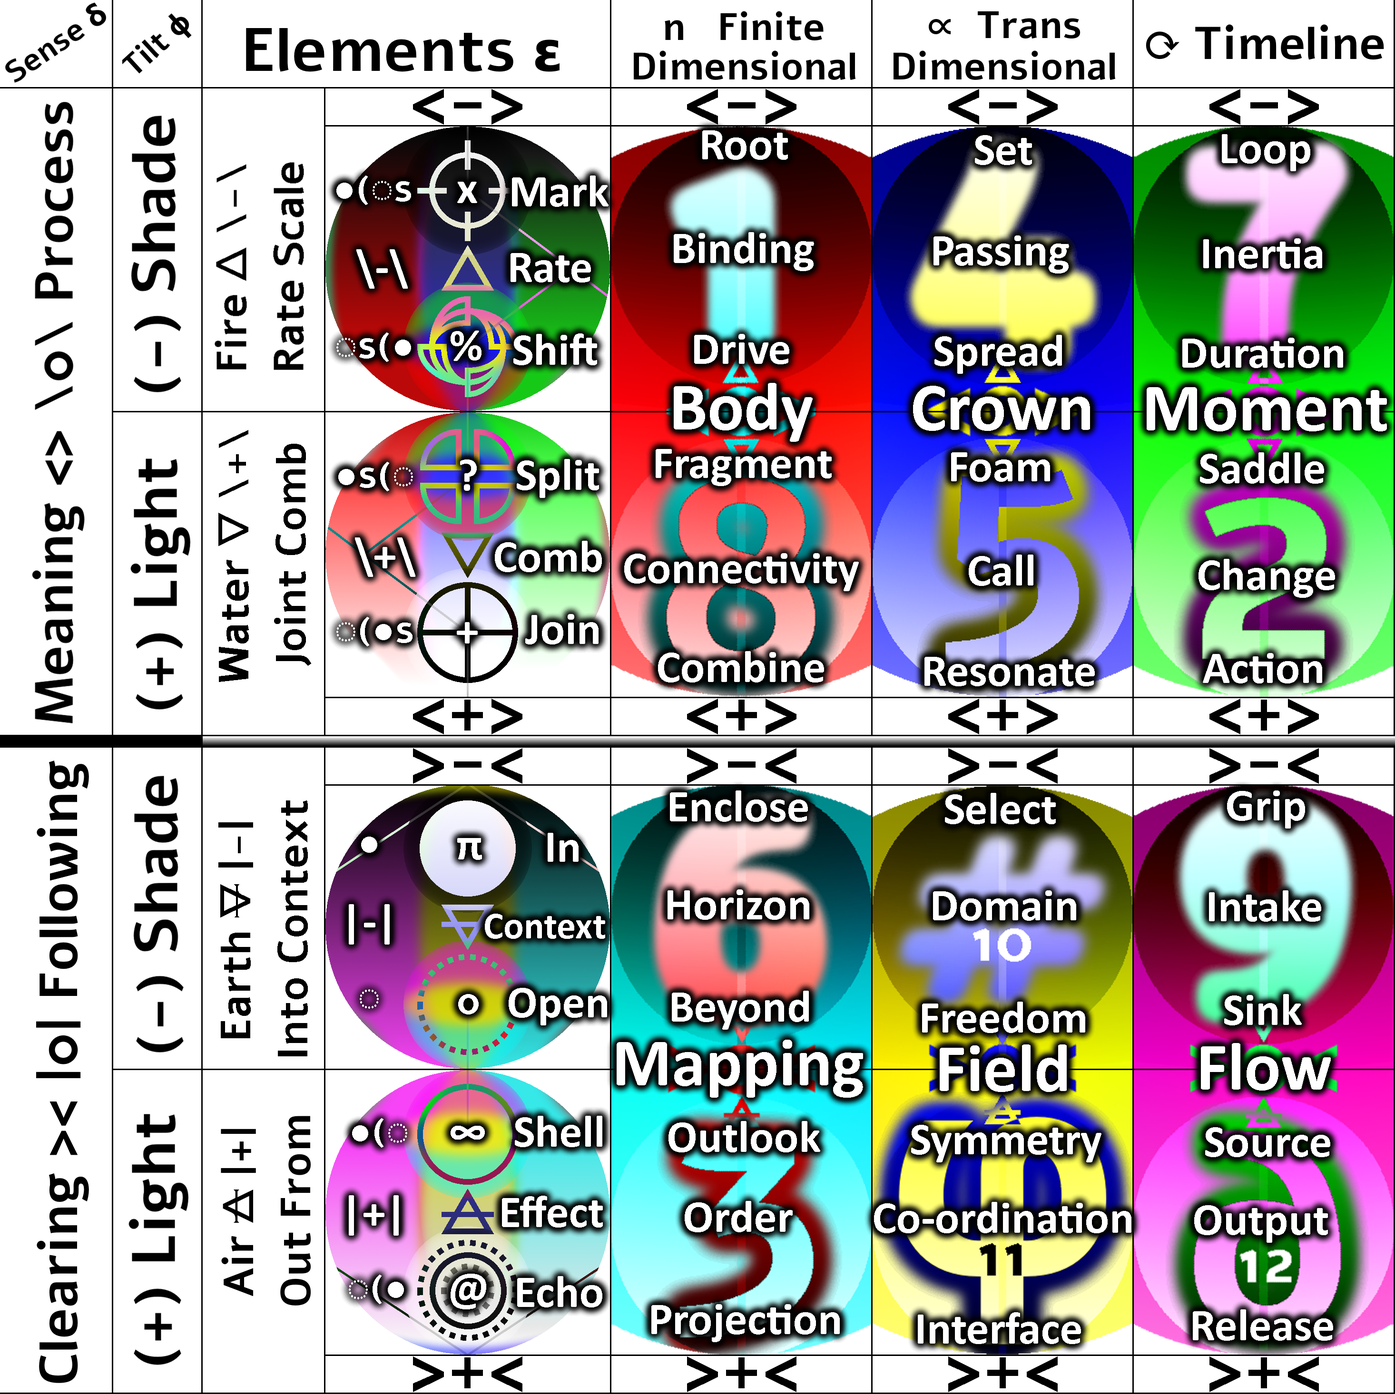
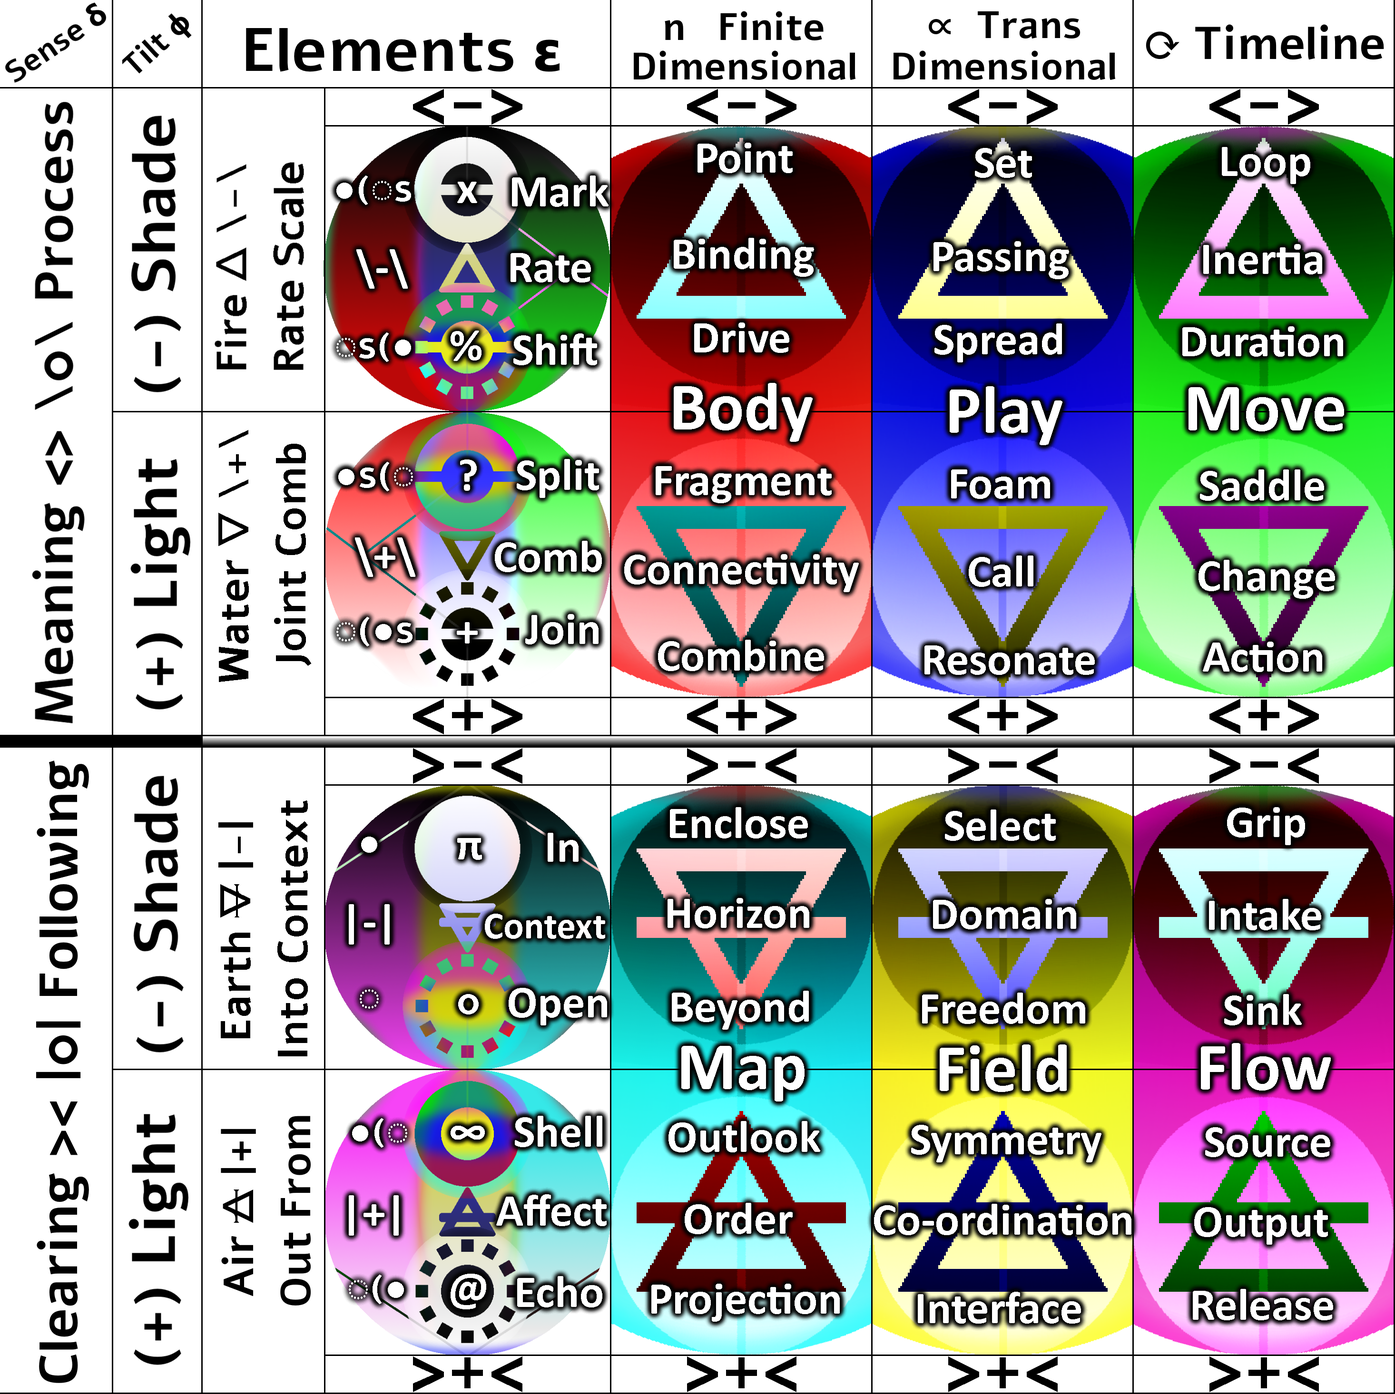
Holoknoticon 12.3

diff --git a/index.html b/index.html
@@ -76,47 +76,47 @@
 			<p>The circular bodies out-spiral until they fall into this worldly vortex. They adapt into the social mesh. They insist upon themselves. Only the unknowable is impenetrable. An appearance is an appearance. An appearance of helping is an appearance. An appearance of hurting is an appearance. A soul is hallow. What do you have? What can you do with it?</p>
 		</section>
 		<section id="orb">
-			<div style="top:522px; left:54px; transform: rotate(-30deg);" class="sefirot hoverDiv"><a href="#body" tabindex="11" onclick="outline('body')"><div>Red. Body. \n\</div></a></div>
-			<div style="top:550px; left:154px; transform: rotate(-30deg);" class="lune hoverDiv"><a href="#1" tabindex="12" onclick="outline('1')"><div>Dark Red. 1. Binding</div></a></div>
-			<div style="top:603px; left:62px; transform: rotate(-30deg);" class="lune hoverDiv"><a href="#8" tabindex="13" onclick="outline('8')"><div>Light Red. 8. Connectivity</div></a></div>
+			<div style="top:210px; left:350px; transform: rotate(45deg);" class="sefirot hoverDiv"><a href="#earth" tabindex="11" onclick="outline('earth')"><div>Earth. Context. |-|</div></a></div>
+			<div style="top:213px; left:404px;" class="lune hoverDiv"><a href="#in" tabindex="12" onclick="outline('in')"><div>In. π. ●</div></a></div>
+			<div style="top:320px; left:404px;" class="lune hoverDiv"><a href="#open" tabindex="13" onclick="outline('open')"><div>Open. o. o</div></a></div>
 
-			<div style="top:695px; left:350px;" class="sefirot hoverDiv"><a href="#field" tabindex="14" onclick="outline('field')"><div>Yellow. Field. |∝|</div></a></div>
-			<div style="top:695px; left:404px;" class="lune hoverDiv"><a href="#10" tabindex="15" onclick="outline('10')"><div>Dark Yellow. 10. Domain</div></a></div>
-			<div style="top:800px; left:404px;" class="lune hoverDiv"><a href="#11" tabindex="16" onclick="outline('11')"><div>Light Yellow. 11. Co-ordination</div></a></div>
+			<div style="top:350px; left:210px; transform: rotate(45deg);" class="sefirot hoverDiv"><a href="#fire" tabindex="14" onclick="outline('fire')"><div>Fire. Scale. \-\</div></a></div>
+			<div style="top:350px; left:265px;" class="lune hoverDiv"><a href="#mark" tabindex="15" onclick="outline('mark')"><div>Mark. x. ●(os</div></a></div>
+			<div style="top:458px; left:265px;" class="lune hoverDiv"><a href="#shift" tabindex="16" onclick="outline('shift')"><div>Shift. %. os(●</div></a></div>
 
-			<div style="top:522px; left:647px; transform: rotate(30deg);" class="sefirot hoverDiv"><a href="#moment" tabindex="17" onclick="outline('moment')"><div>Green. Moment. \⟳\</div></a></div>
-			<div style="top:550px; left:655px; transform: rotate(30deg);" class="lune hoverDiv"><a href="#7" tabindex="18" onclick="outline('7')"><div>Dark Green. 7. Inertia</div></a></div>
-			<div style="top:607px; left:746px; transform: rotate(30deg);" class="lune hoverDiv"><a href="#2" tabindex="19" onclick="outline('2')"><div>Light Green. 2. Change</div></a></div>
+			<div style="top:350px; left:490px; transform: rotate(45deg);" class="sefirot hoverDiv"><a href="#water" tabindex="17" onclick="outline('water')"><div>Water. Comb. \+\</div></a></div>
+			<div style="top:350px; left:542px;" class="lune hoverDiv"><a href="#split" tabindex="18" onclick="outline('split')"><div>Split. ?. ●s(o</div></a></div>
+			<div style="top:458px; left:542px;" class="lune hoverDiv"><a href="#join" tabindex="19" onclick="outline('join')"><div>Join. +. o(●s</div></a></div>
 
-			<div style="top:178px; left:647px; transform: rotate(-30deg);" class="sefirot hoverDiv"><a href="#mapping" tabindex="20" onclick="outline('mapping')"><div>Cyan. Mapping. |n|</div></a></div>
-			<div style="top:260px; left:654px; transform: rotate(-30deg);" class="lune hoverDiv"><a href="#6" tabindex="21" onclick="outline('6')"><div>Dark Cyan. 6. Horizon</div></a></div>
-			<div style="top:207px; left:748px; transform: rotate(-30deg);" class="lune hoverDiv"><a href="#3" tabindex="22" onclick="outline('3')"><div>Light Cyan. 3. Order</div></a></div>
+			<div style="top:490px; left:350px; transform: rotate(45deg);" class="sefirot hoverDiv"><a href="#air" tabindex="20" onclick="outline('air')"><div>Air. Effect. |+|</div></a></div>
+			<div style="top:490px; left:404px;" class="lune hoverDiv"><a href="#shell" tabindex="21" onclick="outline('shell')"><div>Shell. ∞. ●(o</div></a></div>
+			<div style="top:595px; left:404px;" class="lune hoverDiv"><a href="#echo" tabindex="22" onclick="outline('echo')"><div>Echo. @. o(●</div></a></div>
+			
+			<div style="top:420px; left:420px;" id="centerButton" class="hoverDiv"><a href="#center" tabindex="10" onclick="outline('center')"><div>Substance. Aleph Tao. Ineffable</div></a></div>
 
-			<div style="top:8px; left:350px;" class="sefirot hoverDiv"><a href="#verge" tabindex="23" onclick="outline('verge')"><div>Blue. Verge. \∝\</div></a></div>
-			<div style="top:115px; left:404px;" class="lune hoverDiv"><a href="#4" tabindex="24" onclick="outline('4')"><div>Dark Blue. 4. Pass</div></a></div>
-			<div style="top:10px; left:404px;" class="lune hoverDiv"><a href="#5" tabindex="25" onclick="outline('5')"><div>Light Blue. 5. Call</div></a></div>
+			<div style="top:522px; left:54px; transform: rotate(-30deg);" class="sefirot hoverDiv"><a href="#body" tabindex="23" onclick="outline('body')"><div>Red. Body. \n\</div></a></div>
+			<div style="top:550px; left:154px; transform: rotate(-30deg);" class="lune hoverDiv"><a href="#1" tabindex="24" onclick="outline('1')"><div>Dark Red. 1. Binding</div></a></div>
+			<div style="top:603px; left:62px; transform: rotate(-30deg);" class="lune hoverDiv"><a href="#8" tabindex="25" onclick="outline('8')"><div>Light Red. 8. Connectivity</div></a></div>
 
-			<div style="top:180px; left:52px; transform: rotate(30deg);" class="sefirot hoverDiv"><a href="#flow" tabindex="26" onclick="outline('flow')"><div>Magenta. Flow. |⟳|</div></a></div>
-			<div style="top:260px; left:154px; transform: rotate(30deg);" class="lune hoverDiv"><a href="#9" tabindex="27" onclick="outline('9')"><div>Dark Magenta. 9. Intake</div></a></div>
-			<div style="top:207px; left:62px; transform: rotate(30deg);" class="lune hoverDiv"><a href="#12" tabindex="28" onclick="outline('12')"><div>Light Magenta. 12. Output</div></a></div>
+			<div style="top:695px; left:350px;" class="sefirot hoverDiv"><a href="#field" tabindex="26" onclick="outline('field')"><div>Yellow. Field. |∝|</div></a></div>
+			<div style="top:695px; left:404px;" class="lune hoverDiv"><a href="#10" tabindex="27" onclick="outline('10')"><div>Dark Yellow. 10. Domain</div></a></div>
+			<div style="top:800px; left:404px;" class="lune hoverDiv"><a href="#11" tabindex="28" onclick="outline('11')"><div>Light Yellow. 11. Co-ordination</div></a></div>
 
-			<div style="top:210px; left:350px; transform: rotate(45deg);" class="sefirot hoverDiv"><a href="#earth" tabindex="29" onclick="outline('earth')"><div>Earth. Context. |-|</div></a></div>
-			<div style="top:213px; left:404px;" class="lune hoverDiv"><a href="#in" tabindex="30" onclick="outline('in')"><div>In. π. ●</div></a></div>
-			<div style="top:320px; left:404px;" class="lune hoverDiv"><a href="#open" tabindex="31" onclick="outline('open')"><div>Open. o. o</div></a></div>
+			<div style="top:522px; left:647px; transform: rotate(30deg);" class="sefirot hoverDiv"><a href="#move" tabindex="29" onclick="outline('move')"><div>Green. Move. \⟳\</div></a></div>
+			<div style="top:550px; left:655px; transform: rotate(30deg);" class="lune hoverDiv"><a href="#7" tabindex="30" onclick="outline('7')"><div>Dark Green. 7. Inertia</div></a></div>
+			<div style="top:607px; left:746px; transform: rotate(30deg);" class="lune hoverDiv"><a href="#2" tabindex="31" onclick="outline('2')"><div>Light Green. 2. Change</div></a></div>
 
-			<div style="top:350px; left:210px; transform: rotate(45deg);" class="sefirot hoverDiv"><a href="#fire" tabindex="32" onclick="outline('fire')"><div>Fire. Scale. \-\</div></a></div>
-			<div style="top:350px; left:265px;" class="lune hoverDiv"><a href="#mark" tabindex="33" onclick="outline('mark')"><div>Mark. x. ●(os</div></a></div>
-			<div style="top:458px; left:265px;" class="lune hoverDiv"><a href="#shift" tabindex="34" onclick="outline('shift')"><div>Shift. %. os(●</div></a></div>
+			<div style="top:178px; left:647px; transform: rotate(-30deg);" class="sefirot hoverDiv"><a href="#map" tabindex="32" onclick="outline('map')"><div>Cyan. Map. |n|</div></a></div>
+			<div style="top:260px; left:654px; transform: rotate(-30deg);" class="lune hoverDiv"><a href="#6" tabindex="33" onclick="outline('6')"><div>Dark Cyan. 6. Horizon</div></a></div>
+			<div style="top:207px; left:748px; transform: rotate(-30deg);" class="lune hoverDiv"><a href="#3" tabindex="34" onclick="outline('3')"><div>Light Cyan. 3. Order</div></a></div>
 
-			<div style="top:350px; left:490px; transform: rotate(45deg);" class="sefirot hoverDiv"><a href="#water" tabindex="35" onclick="outline('water')"><div>Water. Comb. \+\</div></a></div>
-			<div style="top:350px; left:542px;" class="lune hoverDiv"><a href="#split" tabindex="36" onclick="outline('split')"><div>Split. ?. ●s(o</div></a></div>
-			<div style="top:458px; left:542px;" class="lune hoverDiv"><a href="#join" tabindex="37" onclick="outline('join')"><div>Join. +. o(●s</div></a></div>
+			<div style="top:8px; left:350px;" class="sefirot hoverDiv"><a href="#play" tabindex="35" onclick="outline('play')"><div>Blue. Play. \∝\</div></a></div>
+			<div style="top:115px; left:404px;" class="lune hoverDiv"><a href="#4" tabindex="36" onclick="outline('4')"><div>Dark Blue. 4. Pass</div></a></div>
+			<div style="top:10px; left:404px;" class="lune hoverDiv"><a href="#5" tabindex="37" onclick="outline('5')"><div>Light Blue. 5. Call</div></a></div>
 
-			<div style="top:490px; left:350px; transform: rotate(45deg);" class="sefirot hoverDiv"><a href="#air" tabindex="38" onclick="outline('air')"><div>Air. Effect. |+|</div></a></div>
-			<div style="top:490px; left:404px;" class="lune hoverDiv"><a href="#shell" tabindex="39" onclick="outline('shell')"><div>Shell. ∞. ●(o</div></a></div>
-			<div style="top:595px; left:404px;" class="lune hoverDiv"><a href="#echo" tabindex="40" onclick="outline('echo')"><div>Echo. @. o(●</div></a></div>
-
-			<div style="top:420px; left:420px;" id="centerButton" class="hoverDiv"><a href="#center" tabindex="41" onclick="outline('center')"><div>Substance. Aleph Tao. Ineffable</div></a></div>
+			<div style="top:180px; left:52px; transform: rotate(30deg);" class="sefirot hoverDiv"><a href="#flow" tabindex="38" onclick="outline('flow')"><div>Magenta. Flow. |⟳|</div></a></div>
+			<div style="top:260px; left:154px; transform: rotate(30deg);" class="lune hoverDiv"><a href="#9" tabindex="39" onclick="outline('9')"><div>Dark Magenta. 9. Intake</div></a></div>
+			<div style="top:207px; left:62px; transform: rotate(30deg);" class="lune hoverDiv"><a href="#12" tabindex="40" onclick="outline('12')"><div>Light Magenta. 12. Output</div></a></div>
 		</section>
 		<section id="table">
 			<div style="top:55px; left:130px;" class="tableElement hoverDiv"><a href="#fire" tabindex="42" onclick="outline('fire')"><div>Fire. Scale. \-\</div></a></div>
@@ -140,15 +140,15 @@
 			<div style="top:80px; left:395px;" class="tablePort hoverDiv"><a href="#1" tabindex="54" onclick="outline('1')"><div>Dark Red. 1. Binding</div></a></div>
 			<div style="top:295px; left:395px;" class="tablePort hoverDiv"><a href="#8" tabindex="55" onclick="outline('8')"><div>Light Red. 8. Connectivity</div></a></div>
 
-			<div style="top:235px; left:563px" class="tablePortion hoverDiv"><a href="#verge" tabindex="56" onclick="outline('verge')"><div>Blue. Verge. \∝\</div></a></div>
+			<div style="top:235px; left:563px" class="tablePortion hoverDiv"><a href="#play" tabindex="56" onclick="outline('play')"><div>Blue. Play. \∝\</div></a></div>
 			<div style="top:80px; left:563px;" class="tablePort hoverDiv"><a href="#4" tabindex="57" onclick="outline('4')"><div>Dark Blue. 4. Pass</div></a></div>
 			<div style="top:295px; left:563px;" class="tablePort hoverDiv"><a href="#5" tabindex="58" onclick="outline('5')"><div>Light Blue. 5. Call</div></a></div>
 
-			<div style="top:235px; left:732px" class="tablePortion hoverDiv"><a href="#moment" tabindex="59" onclick="outline('moment')"><div>Green. Moment. \⟳\</div></a></div>
+			<div style="top:235px; left:732px" class="tablePortion hoverDiv"><a href="#move" tabindex="59" onclick="outline('move')"><div>Green. Move. \⟳\</div></a></div>
 			<div style="top:80px; left:732px;" class="tablePort hoverDiv"><a href="#7" tabindex="60" onclick="outline('7')"><div>Dark Green. 7. Inertia</div></a></div>
 			<div style="top:295px; left:732px;" class="tablePort hoverDiv"><a href="#2" tabindex="61" onclick="outline('2')"><div>Light Green. 2. Change</div></a></div>
 			
-			<div style="top:662px; left:395px" class="tablePortion hoverDiv"><a href="#mapping" tabindex="62" onclick="outline('mapping')"><div>Cyan. Mapping. |n|</div></a></div>
+			<div style="top:662px; left:395px" class="tablePortion hoverDiv"><a href="#map" tabindex="62" onclick="outline('map')"><div>Cyan. Map. |n|</div></a></div>
 			<div style="top:507px; left:395px;" class="tablePort hoverDiv"><a href="#6" tabindex="63" onclick="outline('6')"><div>Dark Cyan. 6. Horizon</div></a></div>
 			<div style="top:722px; left:395px;" class="tablePort hoverDiv"><a href="#3" tabindex="64" onclick="outline('3')"><div>Light Cyan. 3. Order</div></a></div>
 			
@@ -198,7 +198,7 @@
 				All concepts related to this Holoknoticon are related to those prime concepts. Here are some names I've given to some of them:
 				<ul>
 					<li>4 Elements 4ε = 2δ x 2ϕ : : aka relations or The Dynamo, dimensionless</li>
-					<li>6 Portions 6θ = 3ℵ x 2δ : : aka hues</li>
+					<li>6 Angles 6θ = 3ℵ x 2δ : : aka portions or hues</li>
 					<li>6 Peers 6Λ = 3ℵ x 2ϕ</li>
 					<li>6 Dears 6⇳ = 3ℵ x (2ϕ and 2δ interwoven)</li>
 					<li>12 Ports 12u = 3ℵ x 4ε : : aka numerals or portals</li>
@@ -295,7 +295,7 @@
 				Dynamo/Dimensionless x Meaning\~\ x Reduction(-)<br />
 				Seals: [x Mark ●(◌s] and [% Shift ◌s(●]<br />
 				<h1>Names</h1>
-				Rate, Scale, Ratio, Size, Valuation, Comparison, Temper, Weighting, Filter, Register...<br />				
+				Rate, Weight, Scale, Ratio, Size, Valuation, Comparison, Temper, Weighting, Filter, Register...<br />				
 				eigenvalue, Annealing, Gevurah, Loss, Intensity, Pressure, Repulsion, Extraction, Work, Control, Power, Severity, Anger, Loss, Cost, Combat, Fight, Forging, War, Fractation, Division, Subtraction, Labor, Effort, Exertion, Non-commute, Non-commutative, Job, Torch, Torture, Alight, Tempering, Temper ature, Mean, Mean Time, Disgust, Dis-Gust, Hate, Contraction, Displacement, Weight, Val, Value, Tone<br />
 				Val. Valuation<br />
 				Fuzziness, Fuzzy Filter?				
@@ -537,14 +537,14 @@
 				Distinguished as actual spatial state of a thing in "one moment". Fields have singularities but they continue on through space and time. Borders of things form in wave fronts, but they still have depth.<br />
 				These borders can become temporary containers for more wave behavior.
 			</div>
-			<div id="verge" class="outline">
-				<h1 class="title">Crown ... \∝\ ... △∝▽</h1>
+			<div id="play" class="outline">
+				<h1 class="title">Play ... \∝\ ... △∝▽</h1>
 				<h1>Addresses</h1>
 				A Portion, Trans Dimensional Meaning Sefirot.<br />
 				Trans-Dimensional(∝) x Meaning\~\<br />
 				<h1>Names</h1>
-				Crown, Verge, Crest, Arch, Composition, Creativity, Art...<br />
-				Keter, Wave, Sea, Crash, Critical, Tip, Edge, Surface, Conscious, Consciousness, Awareness, Event, Archetype, Embedding, Cusp, Point, Slush, Ripple, Billow?, Swell?, Surf?, Surge?, Wavelet?, Froth, Sponge?, Head, Validating, Collision, Strut, Product, Crit, Crimp, Question, Sex, Joining, Fault Line, Pinch, Proof, Proving, Verification<br />
+				Play, Verse, Crown, Fold, Art, Verge, Arch, Crest, Composition, Creativity...<br />
+				Keter, Wave, Sea, Crash, Peak, Critical, Tip, Drip, Drop, Edge, Surface, Conscious, Consciousness, Awareness, Zeitgeist, Event, Archetype, Embedding, Cusp, Slush, Ripple, Billow?, Swell?, Surf?, Surge?, Wavelet?, Froth, Sponge?, Head, Validating, Collision, Strut, Product, Crit, Crimp, Question, Sex, Joining, Fault Line, Pinch, Proof, Proving, Verification, But, Nip<br />
 				Critical Tip, Composing Event, Wave Foam, Validating Surface, Possibility Exhaustion<br />
 				Exponential (Fractal)
 				
@@ -552,6 +552,7 @@
 				M, C, V, A^B, ^
 				<h1>Short Descriptions</h1>
 				Control Pointer<br />
+				Probability Lay<br />
 				This is Life and Death.<br />
 				These processes are defined by a collapse of possibilities, an event which separates or combines things in a particular way.<br />
 				They perform compositional functions, which take what exists and control which pass and which...<br />
@@ -562,13 +563,13 @@
 				Musician, Engineer, Artist, Designer, Creator, Architect<br />				
 				YHWH/Yahweh, Allah al-ibn, Jesus the Son, Hera, Poseidon, Zeus, Artemis
 			</div>
-			<div id="moment" class="outline">
-				<h1 class="title">Moment ... \⟳\ ... △⟳▽</h1>
+			<div id="move" class="outline">
+				<h1 class="title">Move ... \⟳\ ... △⟳▽</h1>
 				<h1>Addresses</h1>
 				A Portion, Time Dimensional Meaning Sefirot.<br />
 				Time-Dimensional(⟳) x Meaning\~\<br />
 				<h1>Names</h1>
-				Moment, Motion, Story, Step, Eigenvector/value...<br />				
+				Move, Moment, Motion, Story, Step, Eigenvector/value...<br />				
 				Netzach, Duration, Endurance, Change, Path, Course, Jump, Pacing, Quest, Eral?<br />
 				Linear (Sloped)
 				
@@ -586,13 +587,13 @@
 				<h1>Long Descriptions</h1> 
 
 			</div>
-			<div id="mapping" class="outline">
-				<h1 class="title">Mapping ... |n| ... 🜃n🜁</h1>
+			<div id="map" class="outline">
+				<h1 class="title">Map ... |n| ... 🜃n🜁</h1>
 				<h1>Addresses</h1>
 				A Portion, Finite Dimensional Clearing Sefirot.<br />
 				Finite-Dimensional(n) x Clearing|~|<br />
 				<h1>Names</h1>
-				Mapping, Chain, Map, Message, Wisdom, Reason...<br />
+				Map, Mapping, Chain, Message, Wisdom, Reason...<br />
 				Chokmah, Connection, Cause, Relation, Function, Ascent, Sanity, Measurement, Measure, Metric, Meter, Spy, Sign, Expectations, Predictions, Perspective, View<br />
 				Crossing (Multiple)
 				<h1>Symbols</h1> 
@@ -618,7 +619,7 @@
 				A Portion, Trans Dimensional Clearing Sefirot.<br />
 				Trans-Dimensional(∝) x Clearing|~|<br />
 				<h1>Names</h1>
-				Field, Foundation, Basis, Game, Equation...<br />				
+				Field, Foundation, Basis, Game, Equation, Grid, Matrix...<br />				
 				Yesod, Stratum, Extension, Topology, Theory, Forum, Mechanism, Sturdiness, Shell, Crust, Manifold, Ice, Glass, Phi (ϕ φ), Spin Glass<br />
 				Fractal (Exponential)	
 				
@@ -671,9 +672,9 @@
 				A Portal, Finite Dimensional Meaning Reduction.<br />
 				Finite-Dimensional(n) x Meaning\~\ x Reduction(-)<br />
 				<h1>Sealed Names</h1>
-				1.x [●(◌s] --- Root, Unity... Single, Oneness, A Point, Enclosed<br />			
-				1... --- Focus, Binding, Boundary... Definition, Surface, Wire, Face, Hoop, Ego, Clothes, Connection<br />				
-				1.% [◌s(●] --- Drive, Wired, Facing... Shaft, Attention, Transmittance, Induction, Conduction, Exposing, Transparency, Tube, Stent<br />
+				1.x [●(◌s] --- Point, Root, Unity... Single, Oneness, A Point, Enclosed<br />			
+				1... --- Binding, Focus, Bind, Boundary, Definition, Surface... Wire, Face, Hoop, Ego, Clothes, Connection<br />				
+				1.% [◌s(●] --- Drive, Wiring, Facing... Shaft, Attention, Transmittance, Induction, Conduction, Exposing, Transparency, Tube, Stent<br />
 				<h1>Symbols</h1> 
 				|, -, ., ϕ?
 				
@@ -806,7 +807,7 @@
 				Time-Dimensional(⟳) x Meaning\~\ x Reduction(-)<br />
 				<h1>Sealed Names</h1>
 				7.x [●(◌s] --- Frequency, Looping, Habit, Orbit, Tradition, Cycle... Laziness, Stable, Regular, Constant, Funneling, Tubing<br />
-				7... --- Inertia, Repitition, Inaction, Eigenvalue... Stability, Tracing, Momentum, Cycle, Durability, Pacing<br />
+				7... --- Inertia, Wait, Await, Repitition, Inaction, Eigenvalue... Stability, Tracing, Momentum, Cycle, Durability, Pacing<br />
 				7.% [◌s(●] --- Wavelength, Dur-ation, Distance, Length, Turn, Pitch... Spacing, Period, Tale, Go
 				<h1>Symbols</h1> 
 				λ, Λ
@@ -854,7 +855,7 @@
 				9.π [●]  --- Grip, Pull, Take, Possessing, Sucking... Capture, Consuming, Concentrating, Whiplash, Whip, Command, Bait, Hook, Eat, Cracking, Snapping, Rip<br />
 				9...  --- Intake, Get, Inflow, Cause... Threading, Identification, Inwards, Treeness, Labyrinth, Drag, Lag, Dialectic, Fixation, Binding, Screwdrive, Converging, Assembly, Gathering, Congregation, Fueling, Retardant, Time Killer, Input, In-spiration<br />
 				9.0 [◌]  --- Sink, Vortex, Drain, Absorbing... Attractor, Representation, Enveloping, Wrapping, Moth, Falling, Past, Prologue, Rabbit Hole<br />
-				<h1>Symbols</h1> 
+				<h1>Symbols</h1>
 				G, g, ᕤ
 				<h1>Short Descriptions</h1>
 				past of present, past in present<br />
@@ -897,7 +898,7 @@
 			<div id="11" class="outline">
 				<h1 class="title">Co-ordination ... 11 ... |+∝+| ... 🜁∝🜁</h1>
 				<h1>Addresses</h1>
-				A Portal, Trans Dimensional Meaning Construction.<br />
+				A Portal, Trans Dimensional Clearing Construction.<br />
 				Trans-Dimensional(∝) x Clearing|~| x Construction(+)<br />
 				<h1>Sealed Names</h1>
 				11.∞ [●(◌] --- Symmetry, Invariance, Regularity, Crystal... Lattice, Translucence, Base, Necessity, "Purposeful", Copied<br />				

diff --git a/script.js b/script.js
@@ -42,10 +42,10 @@ function outline(string) {
     aboutSection.style.display = 'none';
     outlineSection.style.display = 'block';
     if (string == 'center') {
-        outlineButton.style.color = 'rgb(192, 0, 0)';
+        outlineButton.style.color = 'red';
     }
-    else {        
-        outlineButton.style.color = 'rgb(255, 128, 128)';
+    else {
+        outlineButton.style.color = 'white';
     }
     HideOutlines();
     let selected = document.getElementById(string);
